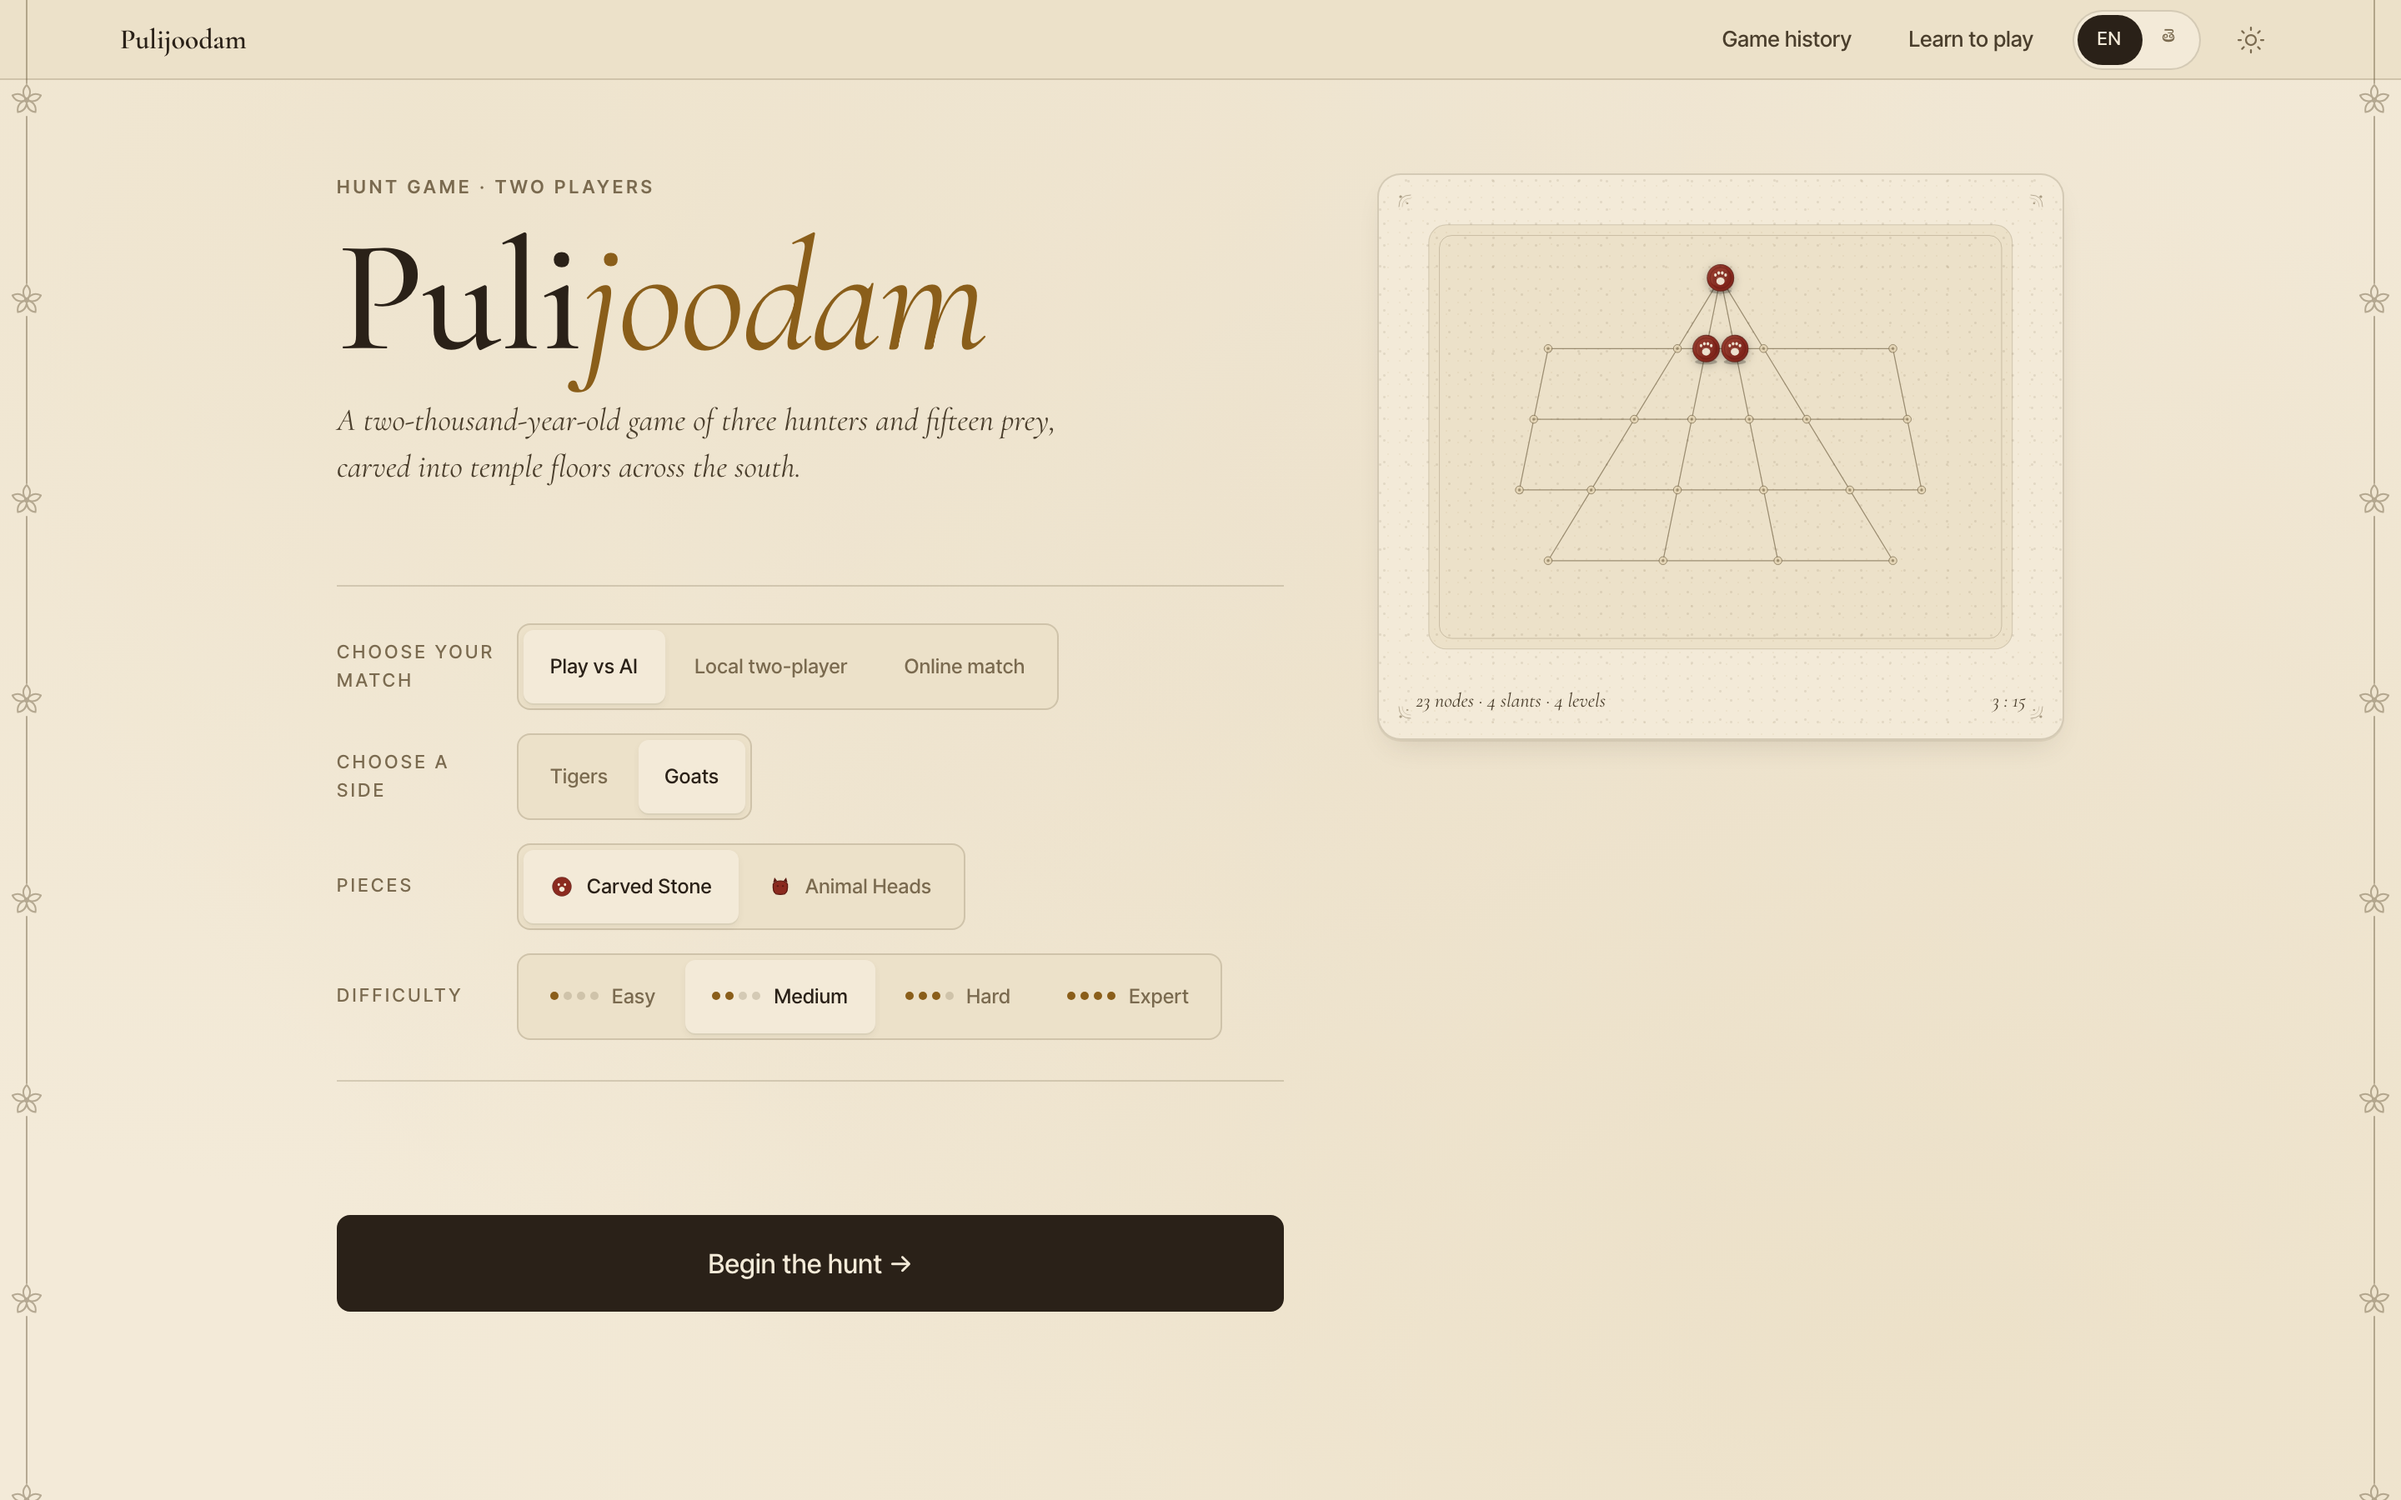
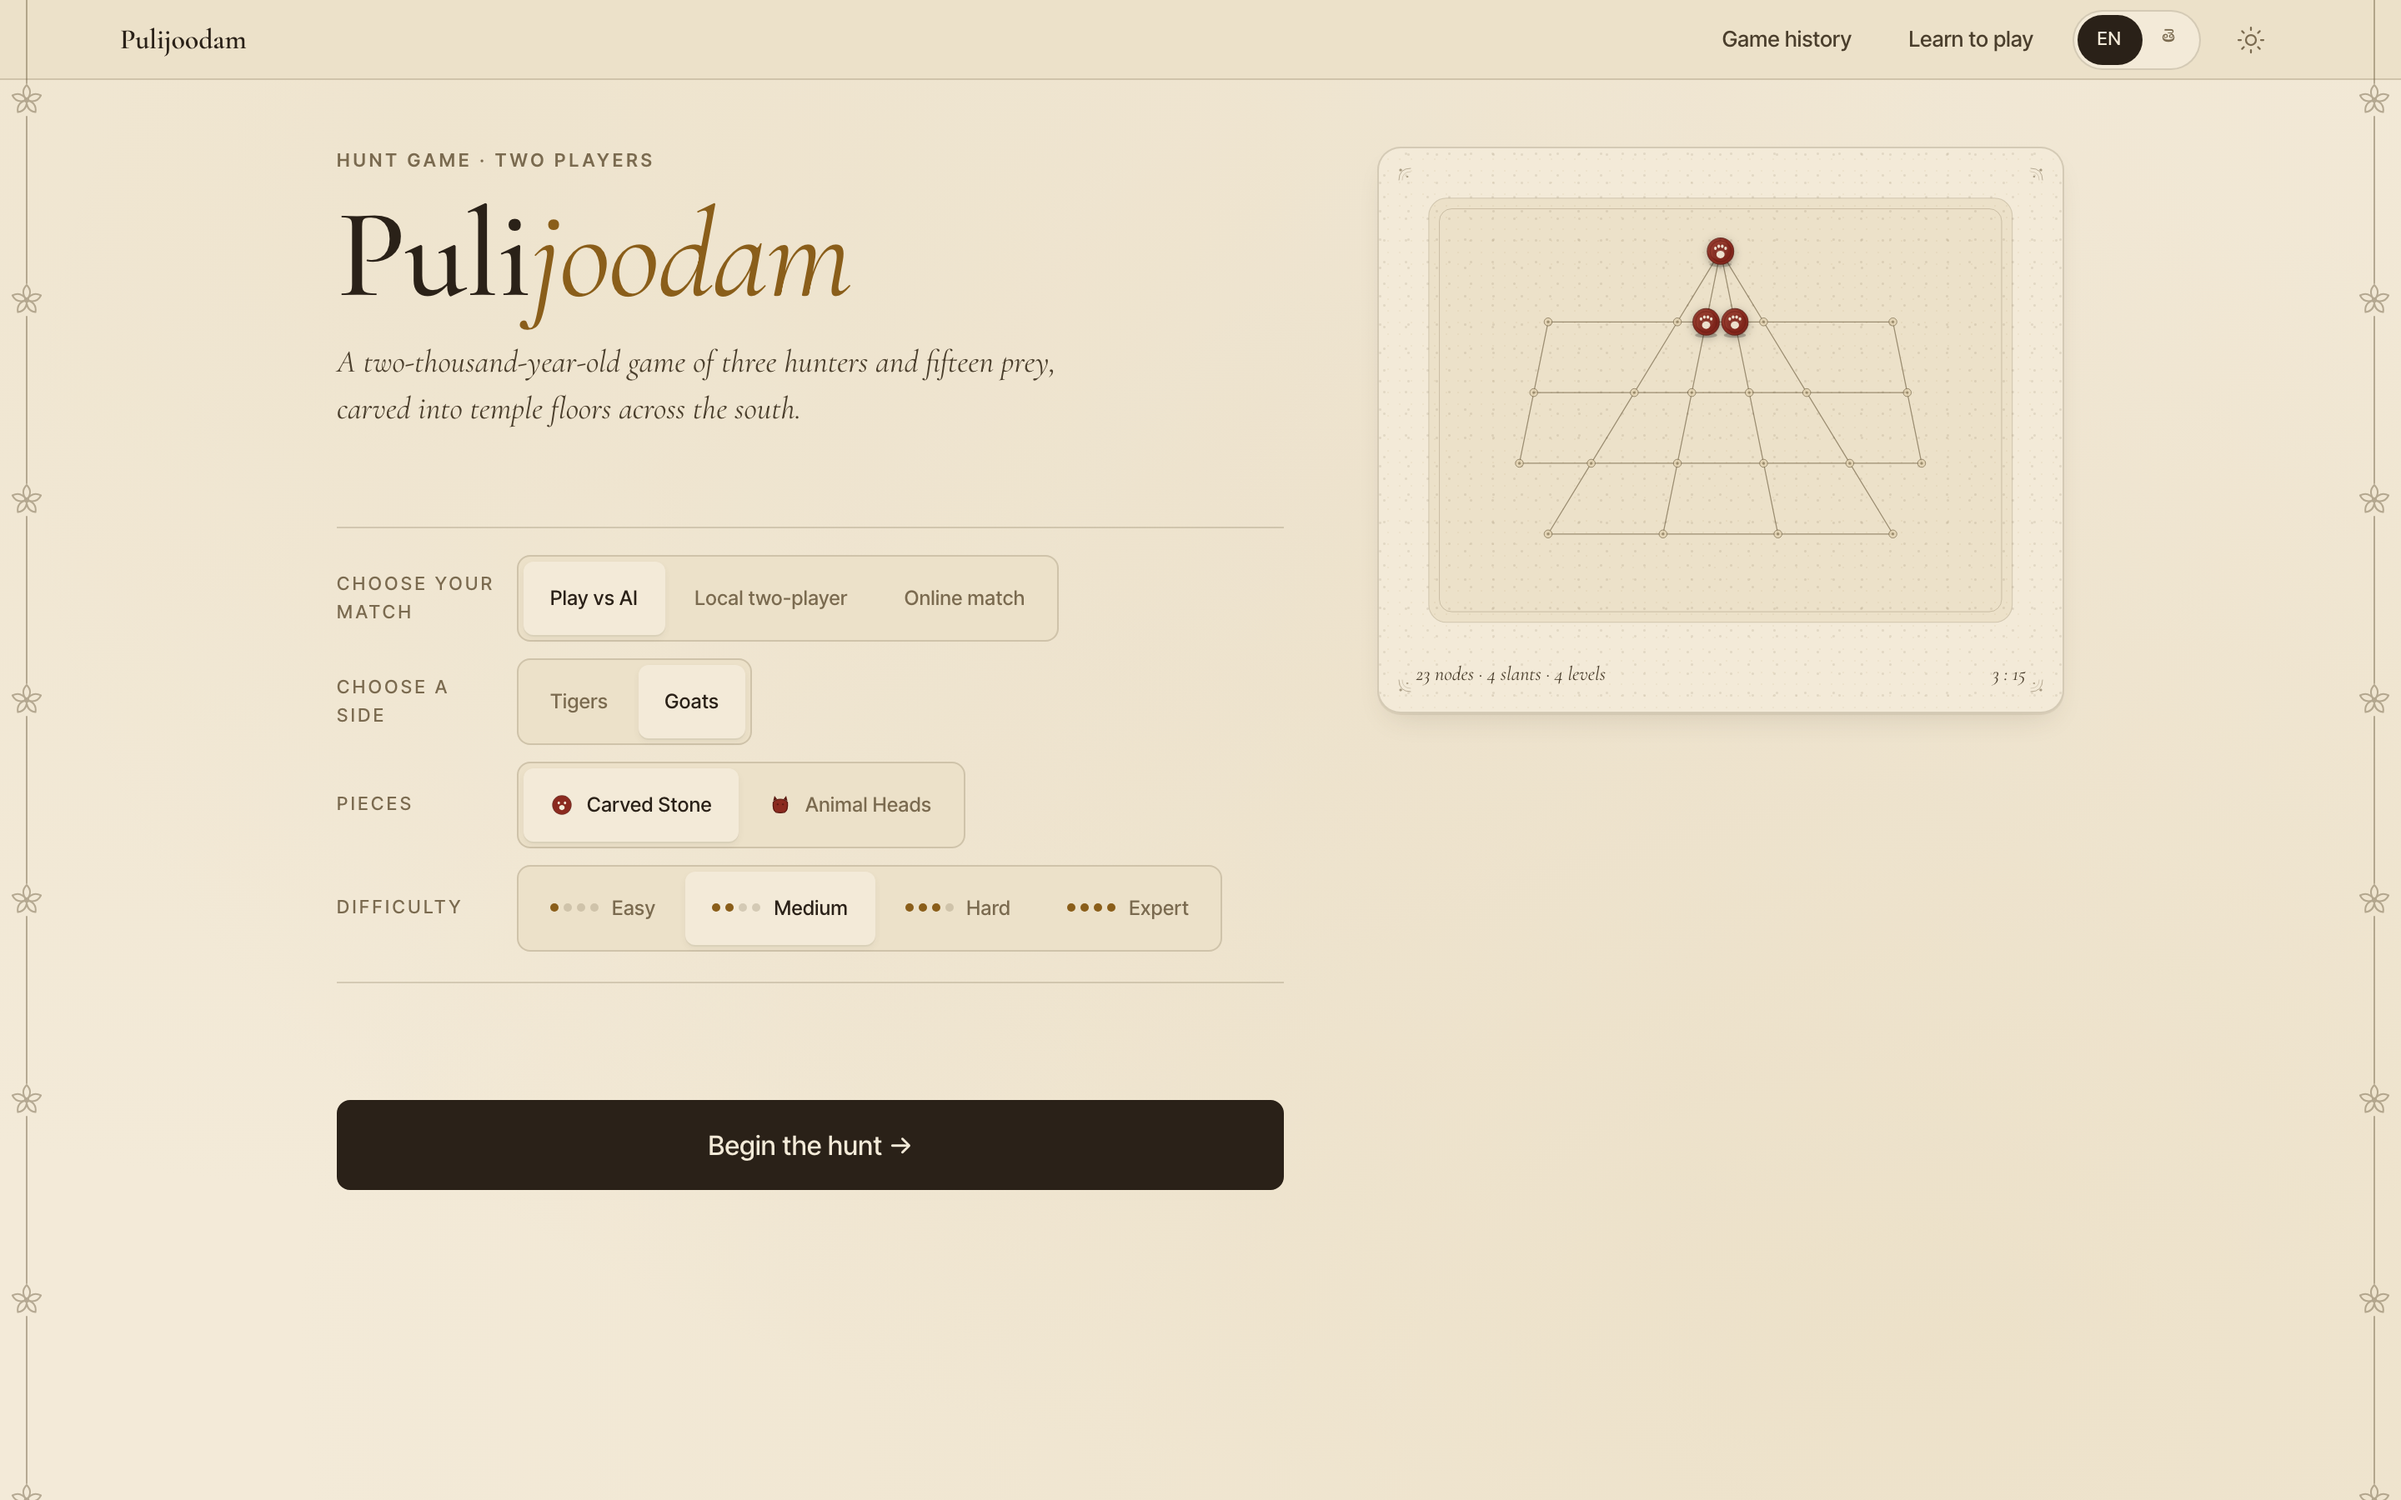
fix(setup): condense vertical so CTA sits above the fold
Typical laptop folds (≤800px usable height) were cutting off "Begin
the hunt" — especially with the resume banner active or in Telugu.
Tightening across six places, no functional change.

- Brand.tsx: lg ceiling drops from clamp(48, 12vw, 96) → clamp(44, 7vw, 76)
  for EN, and (42, 11vw, 84) → (40, 6.5vw, 68) for TE. Still a display
  size; just stops dominating the hero.
- SetupScreen page padding: top max 56→40, bottom max 72→48.
- Hairline rules: top margin-bottom 22→16, bottom margin-top 24→18.
- Form gap: 14→10 between rows (3 gaps × 4 = 12px reclaimed).
- Difficulty collapse: negative margin -14→-10 to match new gap.
- CTA: marginTop 24→14, padding 16→14, minHeight 56→52.
- Resume banner: marginBottom 24→16, padding '14 18'→'10 16'.

Combined ~95px reclaimed in EN, ~110px with the resume banner present.
Recaptured all five screenshots — every CTA now visible without
scrolling at 900px viewport.

diff --git a/src/components/SetupScreen/SetupScreen.tsx b/src/components/SetupScreen/SetupScreen.tsx
@@ -182,7 +182,7 @@ export function SetupScreen({
             maxWidth: 1180,
             margin: '0 auto',
             padding:
-              'clamp(24px, 4.5vw, 56px) clamp(20px, 6vw, 72px) clamp(32px, 5vw, 72px)',
+              'clamp(20px, 3.5vw, 40px) clamp(20px, 6vw, 72px) clamp(28px, 3.5vw, 48px)',
           }}
         >
           {/* Resume banner — full-width above the grid when a game is saved. */}
@@ -191,8 +191,8 @@ export function SetupScreen({
               className="card"
               data-testid="resume-banner"
               style={{
-                marginBottom: 24,
-                padding: '14px 18px',
+                marginBottom: 16,
+                padding: '10px 16px',
                 borderColor: 'color-mix(in oklch, var(--kumkum) 30%, transparent)',
                 background: 'var(--kumkum-soft)',
               }}
@@ -320,11 +320,11 @@ export function SetupScreen({
                 style={{
                   border: 0,
                   borderTop: '1px solid var(--rule-soft)',
-                  margin: '0 0 22px',
+                  margin: '0 0 16px',
                 }}
               />
 
-              <div className="flex flex-col" style={{ gap: 14 }}>
+              <div className="flex flex-col" style={{ gap: 10 }}>
                 <FormRow label={t.setup.chooseMode}>
                   <Seg
                     ariaLabel={t.setup.chooseMode}
@@ -373,7 +373,7 @@ export function SetupScreen({
                     display: 'grid',
                     gridTemplateRows: showDifficulty ? '1fr' : '0fr',
                     opacity: showDifficulty ? 1 : 0,
-                    marginTop: showDifficulty ? 0 : -14,
+                    marginTop: showDifficulty ? 0 : -10,
                     transition:
                       'grid-template-rows 220ms ease, opacity 200ms ease, margin 200ms ease',
                     pointerEvents: showDifficulty ? 'auto' : 'none',
@@ -405,7 +405,7 @@ export function SetupScreen({
                 style={{
                   border: 0,
                   borderTop: '1px solid var(--rule-soft)',
-                  margin: '24px 0 0',
+                  margin: '18px 0 0',
                 }}
               />
             </section>
@@ -419,9 +419,9 @@ export function SetupScreen({
                 style={{
                   width: '100%',
                   fontSize: 16,
-                  padding: '16px 24px',
-                  minHeight: 56,
-                  marginTop: 24,
+                  padding: '14px 24px',
+                  minHeight: 52,
+                  marginTop: 14,
                 }}
               >
                 {t.setup.begin} →

diff --git a/src/components/atoms/Brand.tsx b/src/components/atoms/Brand.tsx
@@ -13,14 +13,15 @@ type FontSize = number | string;
 const ROMAN_SIZES: Record<BrandSize, { wordmark: FontSize; subtitle: FontSize }> = {
   sm: { wordmark: 22, subtitle: 12 },
   md: { wordmark: 40, subtitle: 16 },
-  // Mobile (~360–640px) lands at the 48px floor; desktop (≥800px) hits the 96px ceiling.
-  lg: { wordmark: 'clamp(48px, 12vw, 96px)', subtitle: 22 },
+  // Mobile (~360–640px) lands at the 44px floor; desktop (≥1100px) hits the 76px ceiling.
+  // Lower than the previous 96px so the hero block + form + CTA fit on a typical laptop fold.
+  lg: { wordmark: 'clamp(44px, 7vw, 76px)', subtitle: 22 },
 };
 
 const TELUGU_SIZES: Record<BrandSize, { wordmark: FontSize; subtitle: FontSize }> = {
   sm: { wordmark: 20, subtitle: 12 },
   md: { wordmark: 36, subtitle: 16 },
-  lg: { wordmark: 'clamp(42px, 11vw, 84px)', subtitle: 22 },
+  lg: { wordmark: 'clamp(40px, 6.5vw, 68px)', subtitle: 22 },
 };
 
 /**
